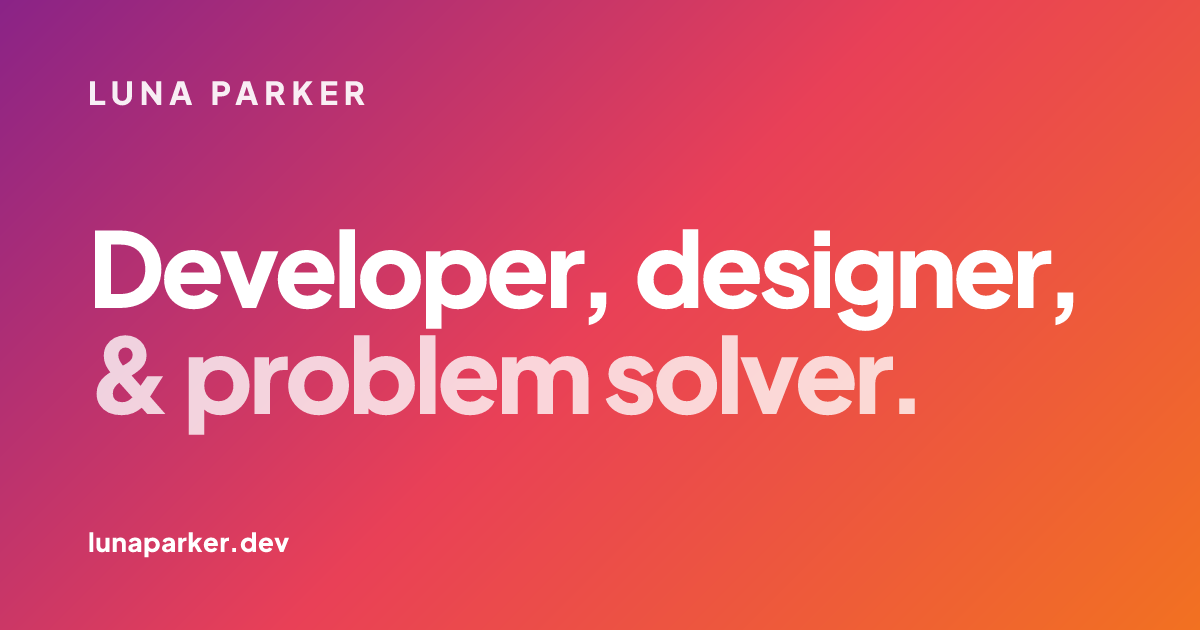
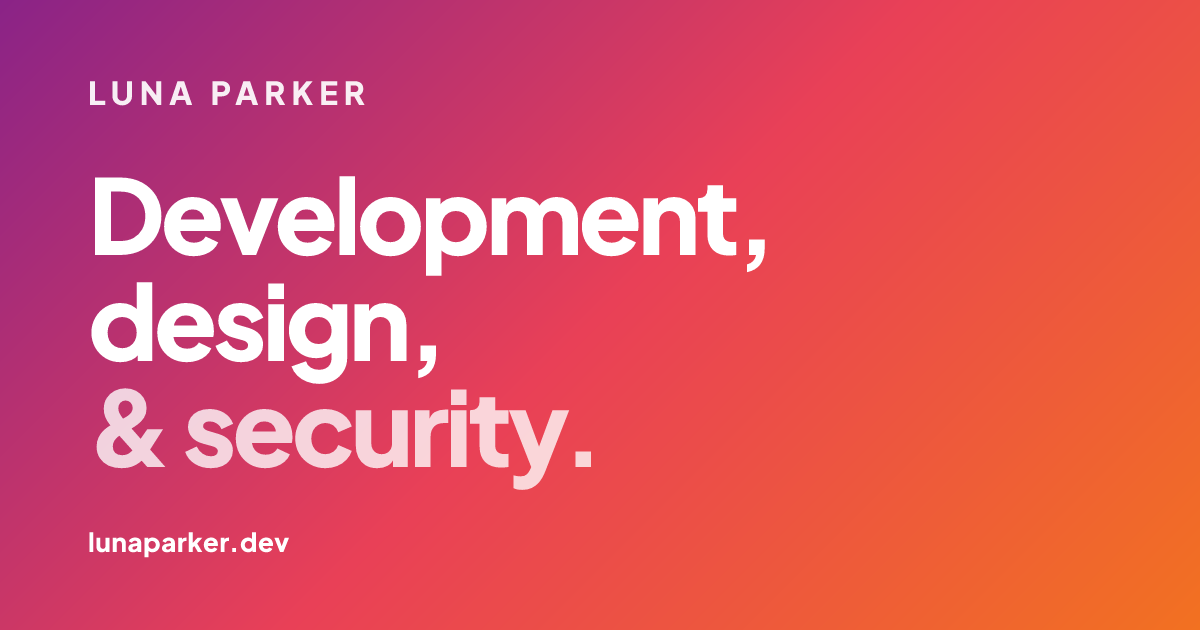
Make the hero triad parallel and retitle Projects
The line under the wordmark now reads "Development · Design · Security",
and the social card and its alt text say the same thing instead of
"Developer, designer, & problem solver". The Projects heading becomes
"Client work & open source projects."

Claude-Session: https://claude.ai/code/session_016UhfLTsi6usiRvDfxUbrCe

Changed region(s): [[0.0617, 0.2714, 0.8942, 0.7841]]

diff --git a/components/Hero/Wordmark.vue b/components/Hero/Wordmark.vue
@@ -45,7 +45,7 @@ onBeforeUnmount(() => document.removeEventListener('keydown', onKeydown))
         <span class="hero__wordmark-luna gradient-text">LUNA</span>
         <span class="hero__wordmark-parker">Parker</span>
       </h1>
-      <p class="hero__role">Developer · Designer · Security</p>
+      <p class="hero__role">Development · Design · Security</p>
 
       <div class="hero__footer">
         <div class="label hero__footer-cue">Scroll to explore</div>

diff --git a/layouts/default.vue b/layouts/default.vue
@@ -22,7 +22,7 @@ useSeoMeta({
   ogDescription: description,
   ogUrl: () => error.value ? undefined : canonical.value,
   ogImage,
-  ogImageAlt: 'Luna Parker — Developer, Designer, and Problem Solver',
+  ogImageAlt: 'Luna Parker: Development, design, and security',
   twitterCard: 'summary_large_image',
   twitterTitle: () => title,
   twitterDescription: description,

diff --git a/components/sections/Projects.vue b/components/sections/Projects.vue
@@ -11,7 +11,7 @@ const data = useData()
         sub="Nine featured. Click any card to visit the live site or open the repo."
       >
         <template #title>
-          Selected client work &<br>things I build for me.
+          Client work &<br>open source projects.
         </template>
         <template #action>
           <div class="mono projects__action">
